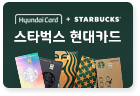
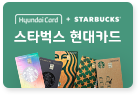
이미지 수정

diff --git a/scss/style.scss b/scss/style.scss
@@ -308,36 +308,11 @@
     #section1 {
       width: 100%;
       height: 637px;
-      background: #d1131d;
+      background:url(../images/starbucks03.jpg)no-repeat 50% 50%;
+      background-size:cover;
 
       .container {
         position: relative;
-
-        .star {
-          position: absolute;
-        }
-
-        .star1 {
-          width: 47px;
-          z-index: 1;
-          top: 301px;
-          left: 211px;
-
-          img {
-            width: 100%;
-          }
-        }
-
-        .star2 {
-          width: 29px;
-          z-index: 1;
-          top: 186px;
-          right: 0px;
-
-          img {
-            width: 100%;
-          }
-        }
 
         .img {
           position: absolute;
@@ -345,9 +320,9 @@
         }
 
         .img1 {
-          width: 328px;
-          bottom: 451.972px;
-          left: 1px;
+          width: 355px;
+          bottom: 420px;
+          left: -5px;
 
           img {
             width: 100%;
@@ -355,10 +330,10 @@
         }
 
         .img2 {
-          width: 435px;
+          width: 551px;
           z-index: 2;
-          bottom: 76px;
-          left: 127px;
+          bottom: 110px;
+          left: 190px;
 
           img {
             width: 100%;
@@ -366,10 +341,10 @@
         }
 
         .img3 {
-          width: 357px;
+          width: 454px;
           z-index: 2;
-          bottom: 68px;
-          left: 509px;
+          bottom: 200px;
+          left: 440px;
 
           img {
             width: 100%;
@@ -377,10 +352,10 @@
         }
 
         .img4 {
-          width: 448px;
+          width: 373px;
           z-index: 2;
-          bottom: 58px;
-          right: -133px;
+          bottom: 40px;
+          right: -100px;
 
           img {
             width: 100%;
@@ -391,16 +366,16 @@
           width: 129px;
           height: 39px;
           z-index: 2;
-          bottom: 372px;
+          bottom: 350px;
           left: 100px;
 
           a {
             display: block;
             width: 100%;
             height: 100%;
-            border: 2px solid #fff;
+            border: 2px solid #e95a87;
             border-radius: 5px;
-            color: #fff;
+            color: #e95a87;
             background: transparent;
             text-align: center;
             line-height: 34px;
@@ -856,7 +831,7 @@
     #section4 {
       width: 100%;
       height: 573px;
-      background: #ffa59c url(../images/section4_bg.jpg) no-repeat 50% 50%;
+      background: url(../images/section4_bg.jpg) no-repeat 50% 50%;
       background-size: cover;
       overflow: hidden;
 
@@ -947,7 +922,7 @@
       position: relative;
       width: 100%;
       height: 400px;
-      background: #094a3d;
+      background:#F0DFC1;
 
       &.addFadein::after {
         content: '';
@@ -979,7 +954,8 @@
             width: 100%;
 
             img {
-              width: 100%;
+              width: 70%;
+              margin-bottom:25px;
             }
           }
 
@@ -987,7 +963,7 @@
             text-align: center;
 
             a {
-              margin: 0 0 0 200px;
+              margin:0;
               display: inline-block;
               width: 125px;
               height: 38px;
@@ -1877,12 +1853,4 @@
   a img {
     width: 100%;
   }
-}
-
-.validator {
-  z-index: 3;
-  position: fixed;
-  left: 15px;
-  bottom: 15px;
-  width: 80px;
 }

diff --git a/css/style.css b/css/style.css
@@ -313,37 +313,12 @@
 #wrap #main #section1 {
   width: 100%;
   height: 637px;
-  background: #d1131d;
+  background: url(../images/starbucks03.jpg) no-repeat 50% 50%;
+  background-size: cover;
 }
 
 #wrap #main #section1 .container {
   position: relative;
-}
-
-#wrap #main #section1 .container .star {
-  position: absolute;
-}
-
-#wrap #main #section1 .container .star1 {
-  width: 47px;
-  z-index: 1;
-  top: 301px;
-  left: 211px;
-}
-
-#wrap #main #section1 .container .star1 img {
-  width: 100%;
-}
-
-#wrap #main #section1 .container .star2 {
-  width: 29px;
-  z-index: 1;
-  top: 186px;
-  right: 0px;
-}
-
-#wrap #main #section1 .container .star2 img {
-  width: 100%;
 }
 
 #wrap #main #section1 .container .img {
@@ -352,9 +327,9 @@
 }
 
 #wrap #main #section1 .container .img1 {
-  width: 328px;
-  bottom: 451.972px;
-  left: 1px;
+  width: 355px;
+  bottom: 420px;
+  left: -5px;
 }
 
 #wrap #main #section1 .container .img1 img {
@@ -362,10 +337,10 @@
 }
 
 #wrap #main #section1 .container .img2 {
-  width: 435px;
+  width: 551px;
   z-index: 2;
-  bottom: 76px;
-  left: 127px;
+  bottom: 110px;
+  left: 190px;
 }
 
 #wrap #main #section1 .container .img2 img {
@@ -373,10 +348,10 @@
 }
 
 #wrap #main #section1 .container .img3 {
-  width: 357px;
+  width: 454px;
   z-index: 2;
-  bottom: 68px;
-  left: 509px;
+  bottom: 200px;
+  left: 440px;
 }
 
 #wrap #main #section1 .container .img3 img {
@@ -384,10 +359,10 @@
 }
 
 #wrap #main #section1 .container .img4 {
-  width: 448px;
+  width: 373px;
   z-index: 2;
-  bottom: 58px;
-  right: -133px;
+  bottom: 40px;
+  right: -100px;
 }
 
 #wrap #main #section1 .container .img4 img {
@@ -398,7 +373,7 @@
   width: 129px;
   height: 39px;
   z-index: 2;
-  bottom: 372px;
+  bottom: 350px;
   left: 100px;
 }
 
@@ -406,9 +381,9 @@
   display: block;
   width: 100%;
   height: 100%;
-  border: 2px solid #fff;
+  border: 2px solid #e95a87;
   border-radius: 5px;
-  color: #fff;
+  color: #e95a87;
   background: transparent;
   text-align: center;
   line-height: 34px;
@@ -873,7 +848,7 @@
 #wrap #main #section4 {
   width: 100%;
   height: 573px;
-  background: #ffa59c url(../images/section4_bg.jpg) no-repeat 50% 50%;
+  background: url(../images/section4_bg.jpg) no-repeat 50% 50%;
   background-size: cover;
   overflow: hidden;
 }
@@ -965,7 +940,7 @@
   position: relative;
   width: 100%;
   height: 400px;
-  background: #094a3d;
+  background: #F0DFC1;
 }
 
 #wrap #main #section5.addFadein::after {
@@ -1005,7 +980,8 @@
 }
 
 #wrap #main #section5 .container .title h2 img {
-  width: 100%;
+  width: 70%;
+  margin-bottom: 25px;
 }
 
 #wrap #main #section5 .container .title p {
@@ -1013,7 +989,7 @@
 }
 
 #wrap #main #section5 .container .title p a {
-  margin: 0 0 0 200px;
+  margin: 0;
   display: inline-block;
   width: 125px;
   height: 38px;
@@ -2022,12 +1998,4 @@
 
 .go-top a img {
   width: 100%;
-}
-
-.validator {
-  z-index: 3;
-  position: fixed;
-  left: 15px;
-  bottom: 15px;
-  width: 80px;
 }

diff --git a/index.html b/index.html
@@ -455,17 +455,9 @@
         <h2 class="hide">메인 섹션 Carry Merry</h2>
 
         <span class="img img1">
-            <img src="./images/m_2021_chiristmas2_slogan.png" alt="">
+            <img src="./images/starbucks05.png" alt="">
         </span>
-
-        <span class="star star1">
-            <img src="./images/2021_chiristmas2_bg_left.png" alt="">
-        </span>
-
-        <span class="star star2">
-            <img src="./images/2021_chiristmas2_bg_right.png" alt="">
-        </span>
-
+        
         <span class="img img2">
             <img src="./images/2021_christmas2_drink.png" alt="">
         </span>
@@ -1126,22 +1118,6 @@
     </a>
 </div>
 
-
-<div class="validator">
-<p class="validator-html">
-    <a href="http://validator.kldp.org/check?uri=referer"
-      onclick="this.href=this.href.replace(/referer$/,encodeURIComponent(document.URL))"><img
-      src="http://validator.kldp.org/w3cimgs/validate/html5-blue.png" alt="Valid HTML 5" height="15" width="80"></a>
-</p>
-
-<p class="validator-css3">
-    <a href="http://css-validator.kldp.org/check/referer">
-            <img style="border:0;width:80px;height:15px"
-            src="http://css-validator.kldp.org/images/validate/css-blue"
-            alt="올바른 CSS입니다!" />
-    </a>
-</p>
-</div>
   
 
 

diff --git a/css/response.css b/css/response.css
@@ -245,6 +245,9 @@ min-width  모바일 태블릿 데스크탑 */
   #wrap #main #section8 .container .right p {
     text-align: center;
   }
+  #wrap #main #section5 .title {
+    display: none;
+  }
   #wrap #footer .container .top .wrap ul li .mobile {
     display: block;
   }

diff --git a/scss/response.scss b/scss/response.scss
@@ -323,6 +323,11 @@ min-width  모바일 태블릿 데스크탑 */
           }
         }
       }
+      #section5 {
+        .title {
+          display:none;
+        }
+      }
     }
 
     #footer .container .top .wrap ul li .mobile {
